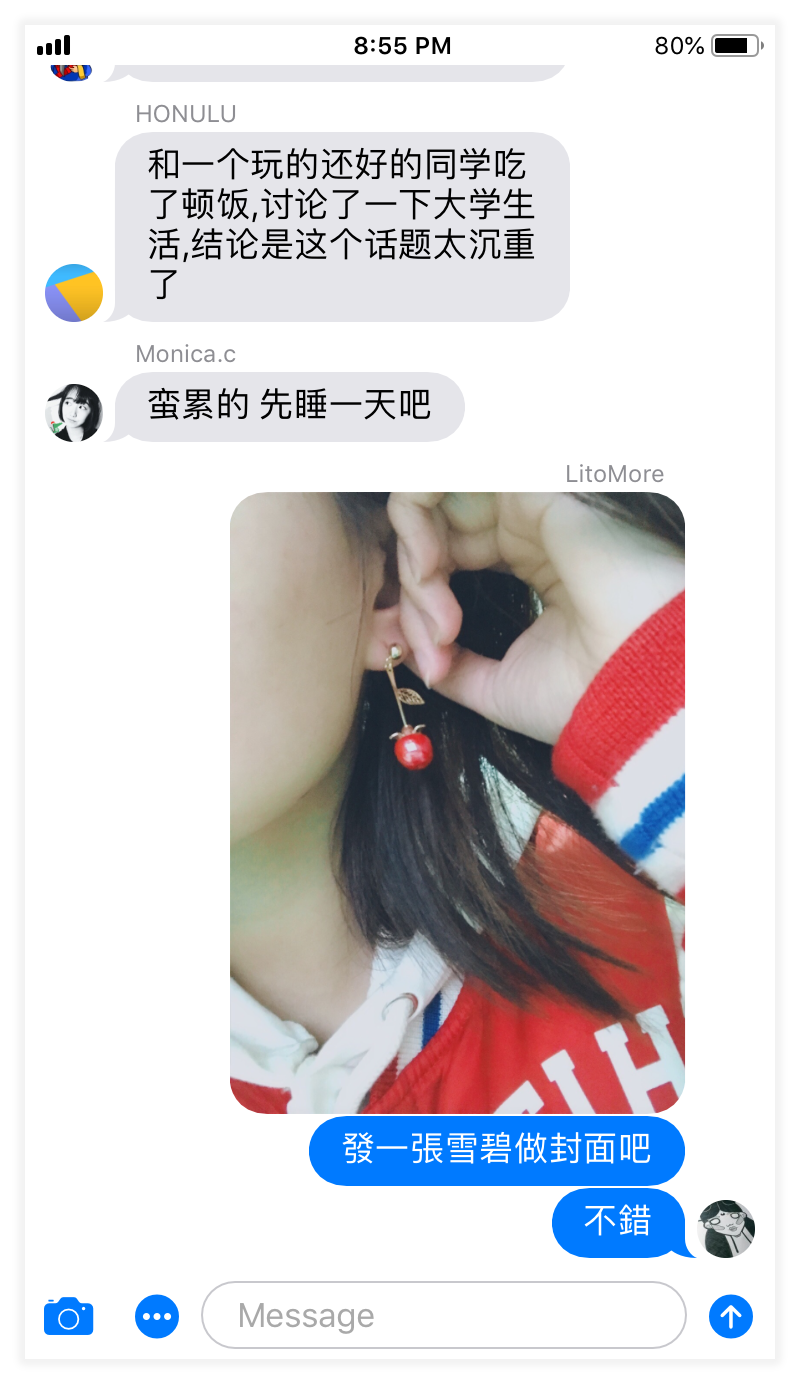
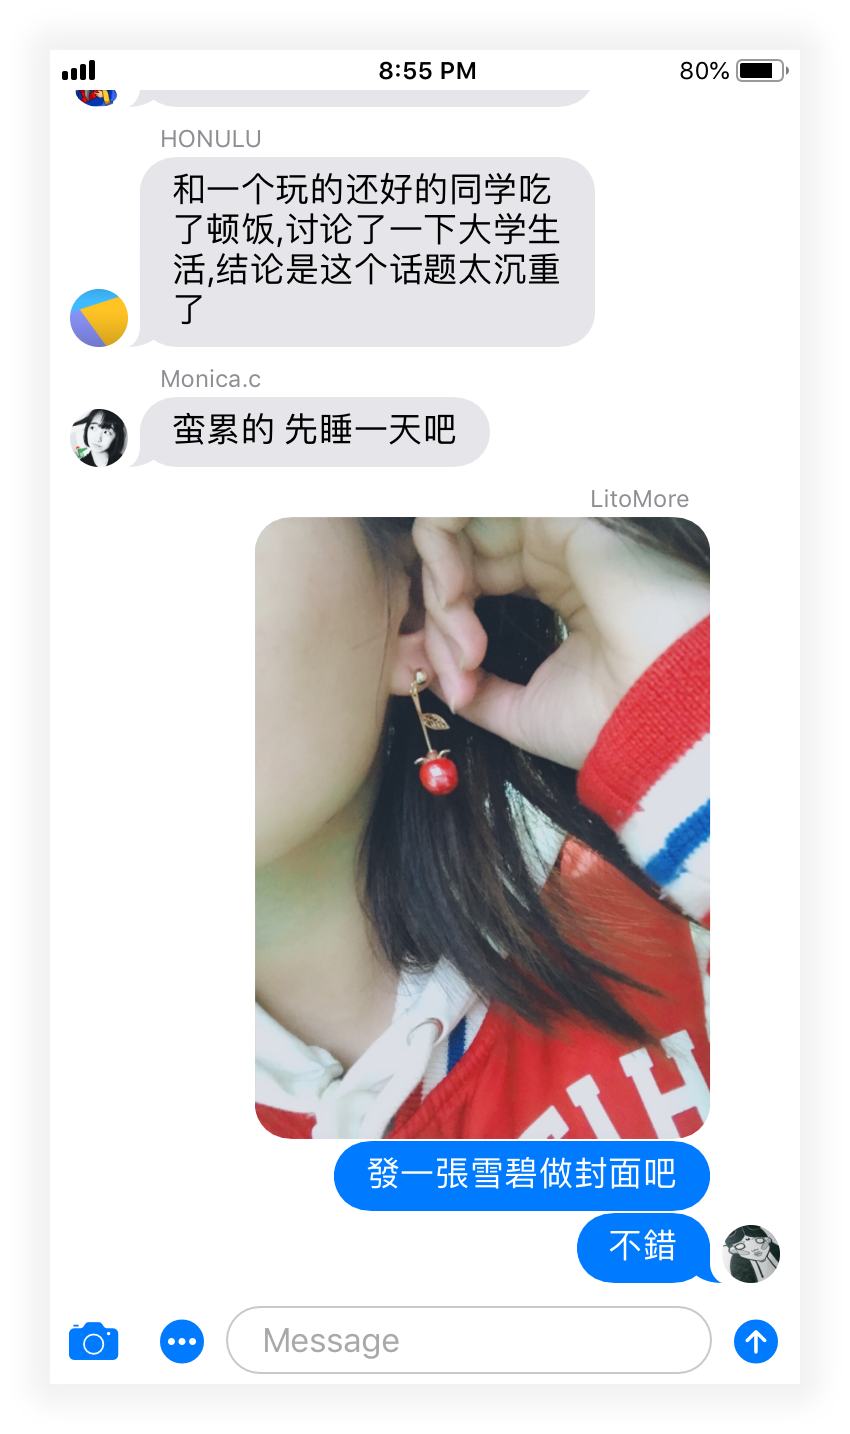
Adjust screenshot

diff --git a/README.md b/README.md
@@ -10,7 +10,7 @@
 
 A Fanfou client with front-end alone
 
-<div align="center"><img width="35%" height="35%" src="https://raw.githubusercontent.com/LitoMore/x-fan/master/screenshot.png" /></div>
+<div align="center"><img width="40%" height="40%" src="https://raw.githubusercontent.com/LitoMore/x-fan/master/screenshot.png" /></div>
 
 ## Related
 
